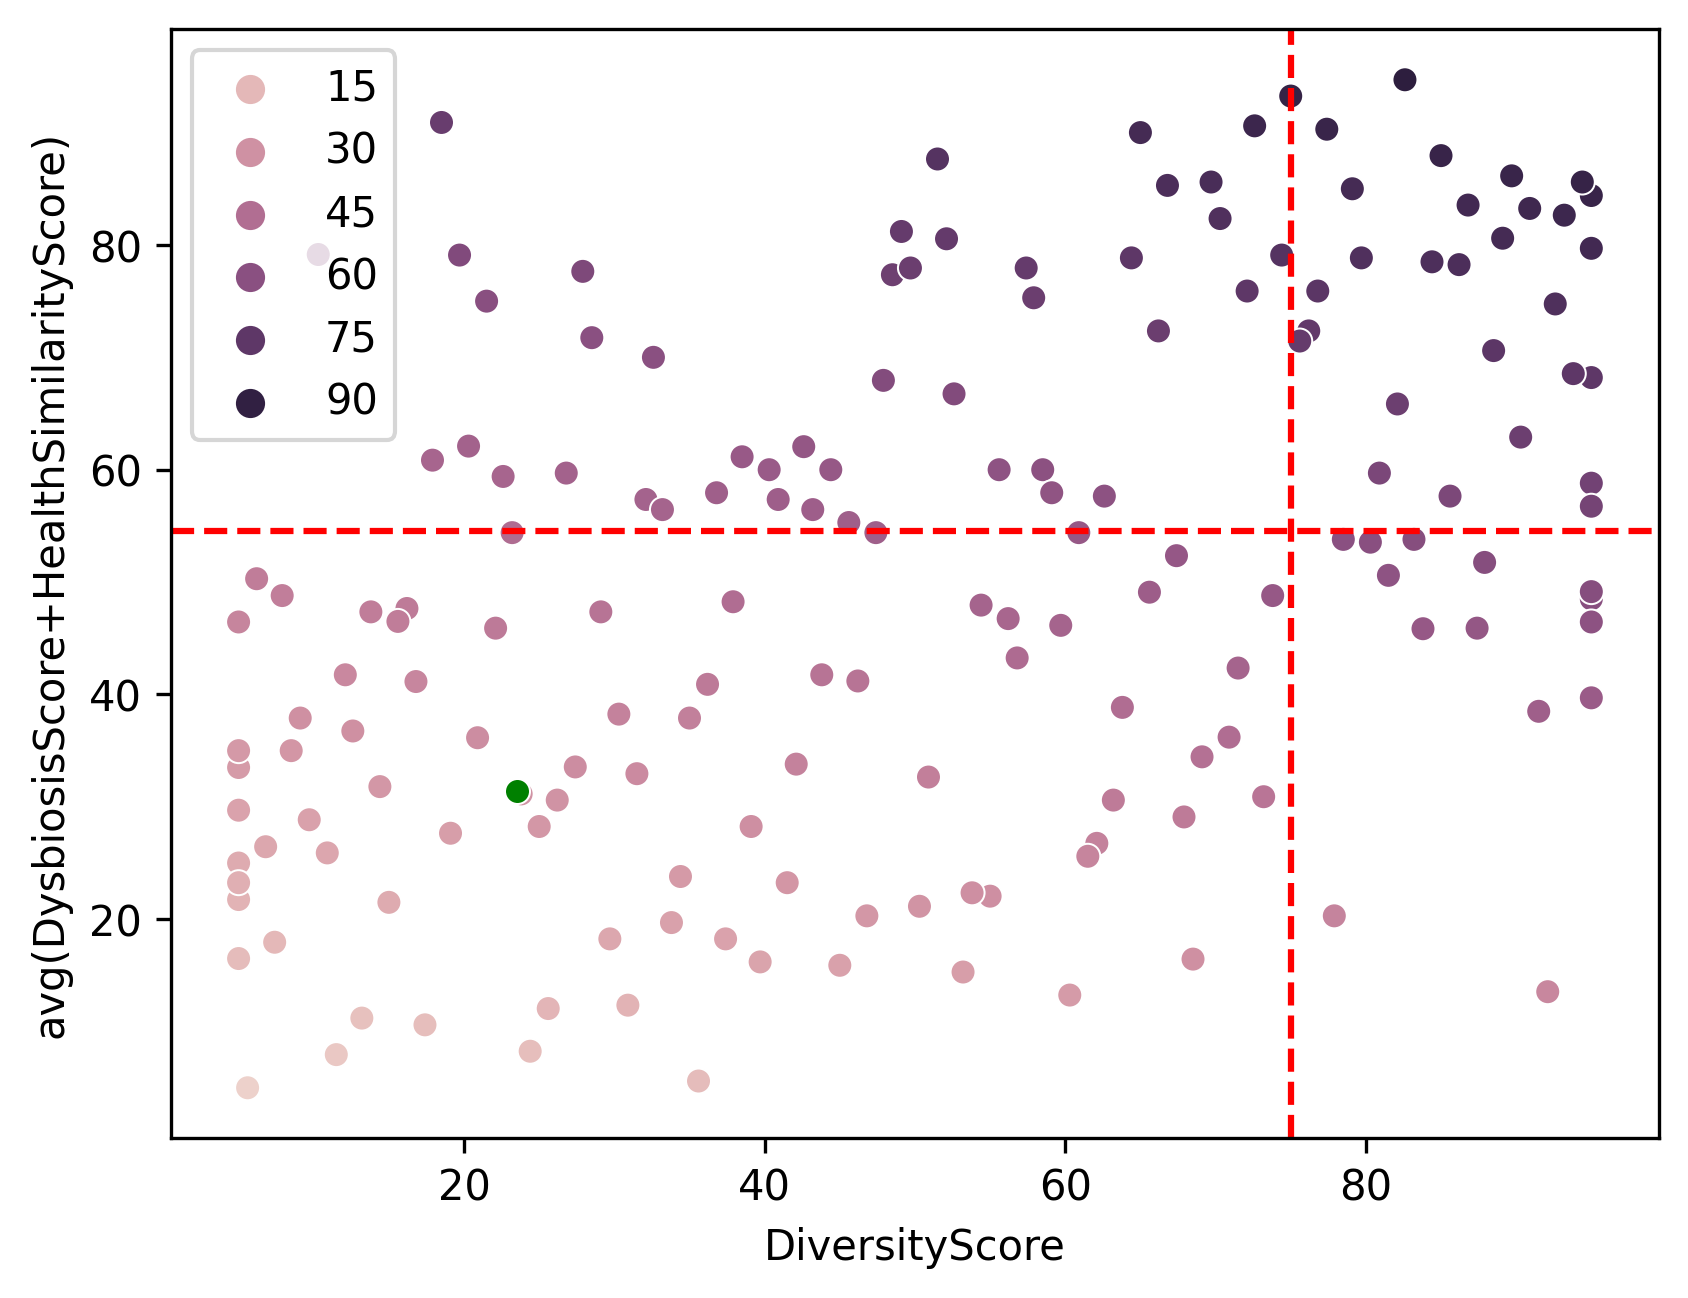
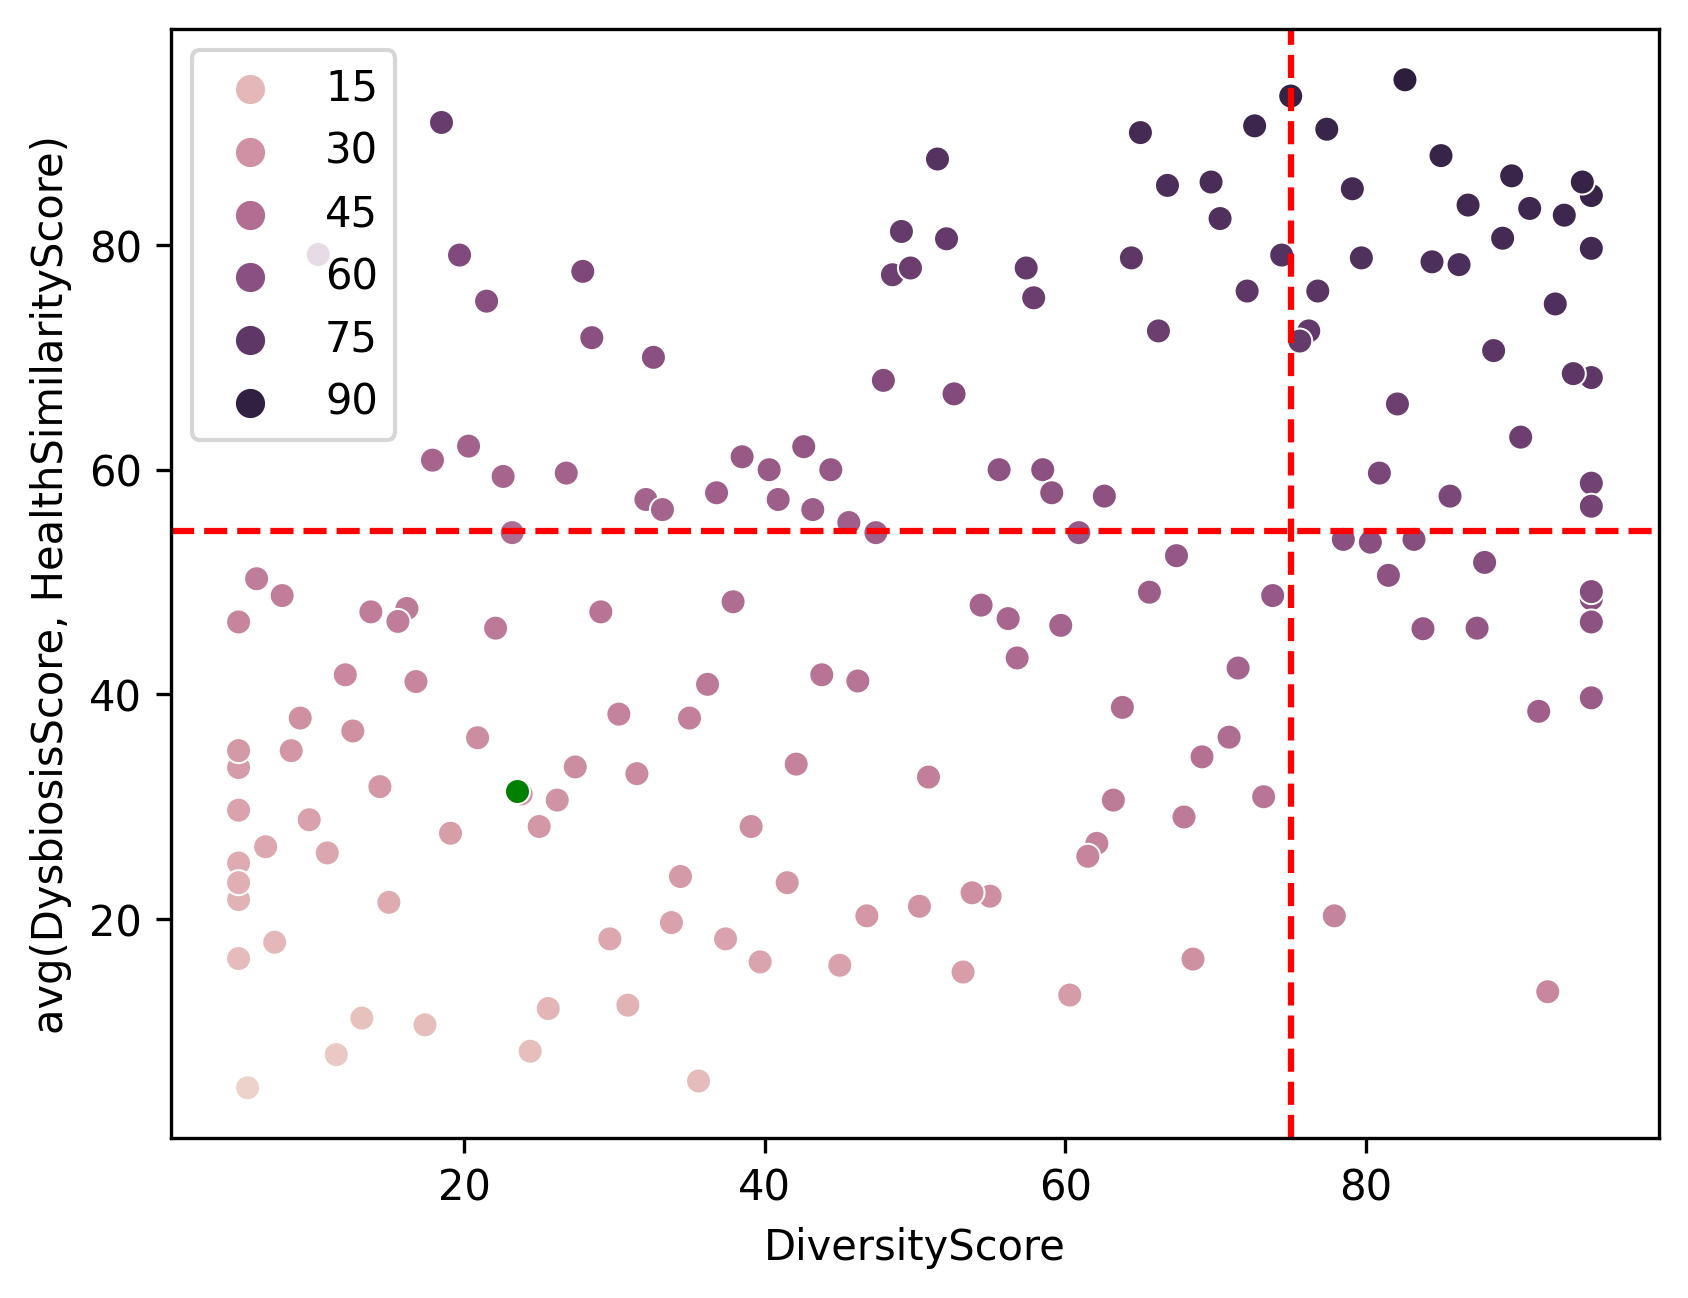
Update scatter plot 2

Changed region(s): [[0.0, 0.1233, 0.0616, 0.8012]]

diff --git a/comp_percentile_rank_forRPA.py b/comp_percentile_rank_forRPA.py
@@ -432,7 +432,7 @@ class CompAnimalDisease:
             
             #plt.plot(x_vals, y_vals, '--', color='lightgray', label=f'y = {slope:.2f}x + {intercept:.2f}')
             plt.xlabel('DiversityScore')
-            plt.ylabel('avg(DysbiosisScore+HealthSimilarityScore)')
+            plt.ylabel('avg(DysbiosisScore, HealthSimilarityScore)')
             plt.legend()
                                  
             plt.axhline(y=60/1.1, xmin=0, xmax=1, color='red', linestyle='--')    
@@ -674,8 +674,8 @@ if __name__ == '__main__':
     #path_exp = 'input/PDmirror_output_dog_1629.csv'
     #path_exp = 'input/PCmirror_output_cat_1520.csv'
     
-    #path_exp = 'input/PD_dog_one_sample.csv'
-    path_exp = 'input/PC_cat_one_sample.csv'
+    path_exp = 'input/PD_dog_one_sample.csv'
+    #path_exp = 'input/PC_cat_one_sample.csv'
     
     companimal = CompAnimalDisease(path_exp)
     companimal.ReadDB()
